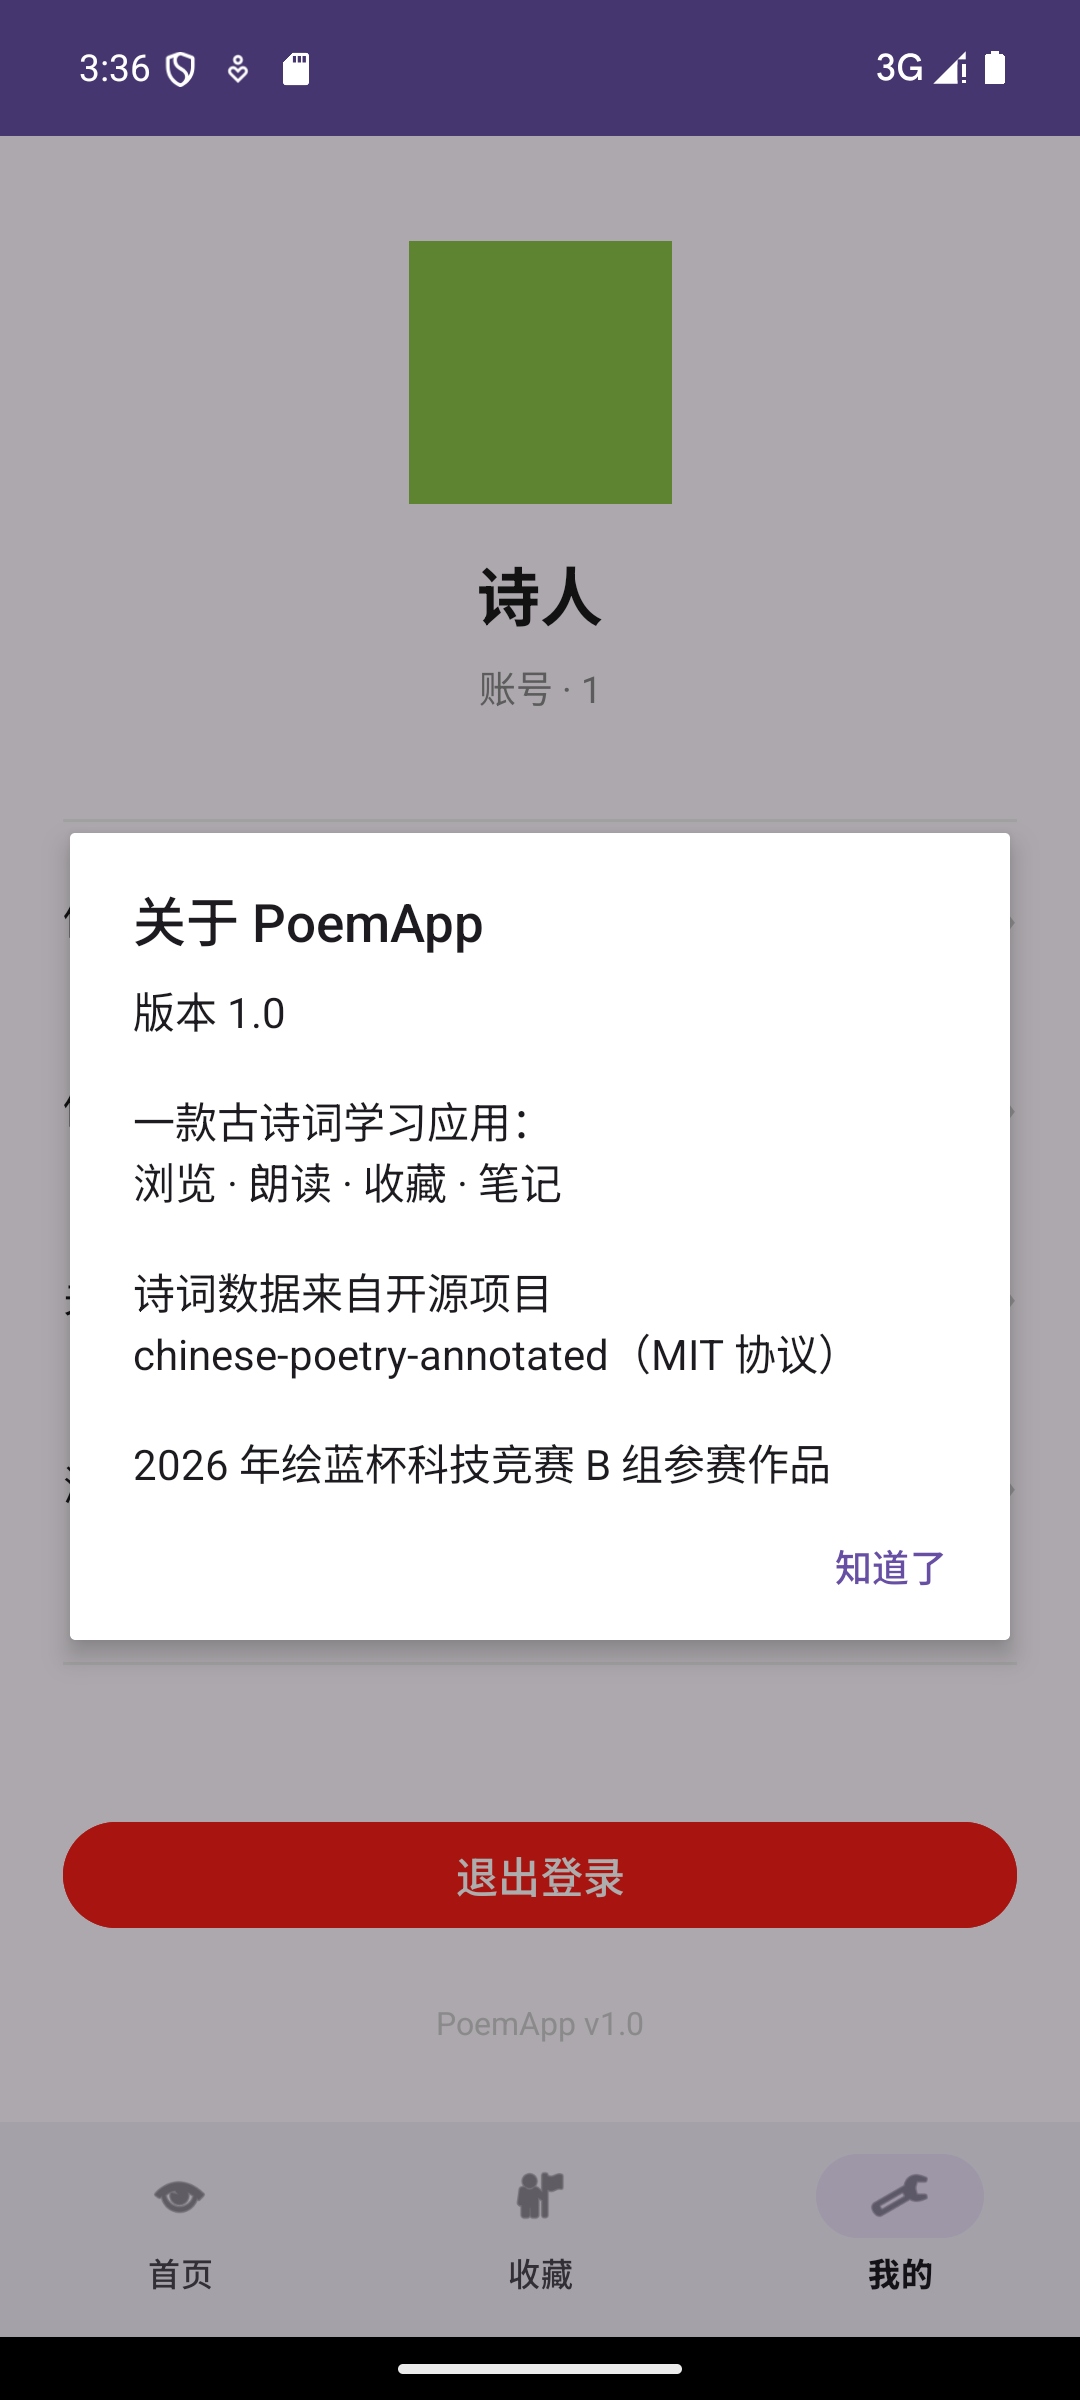
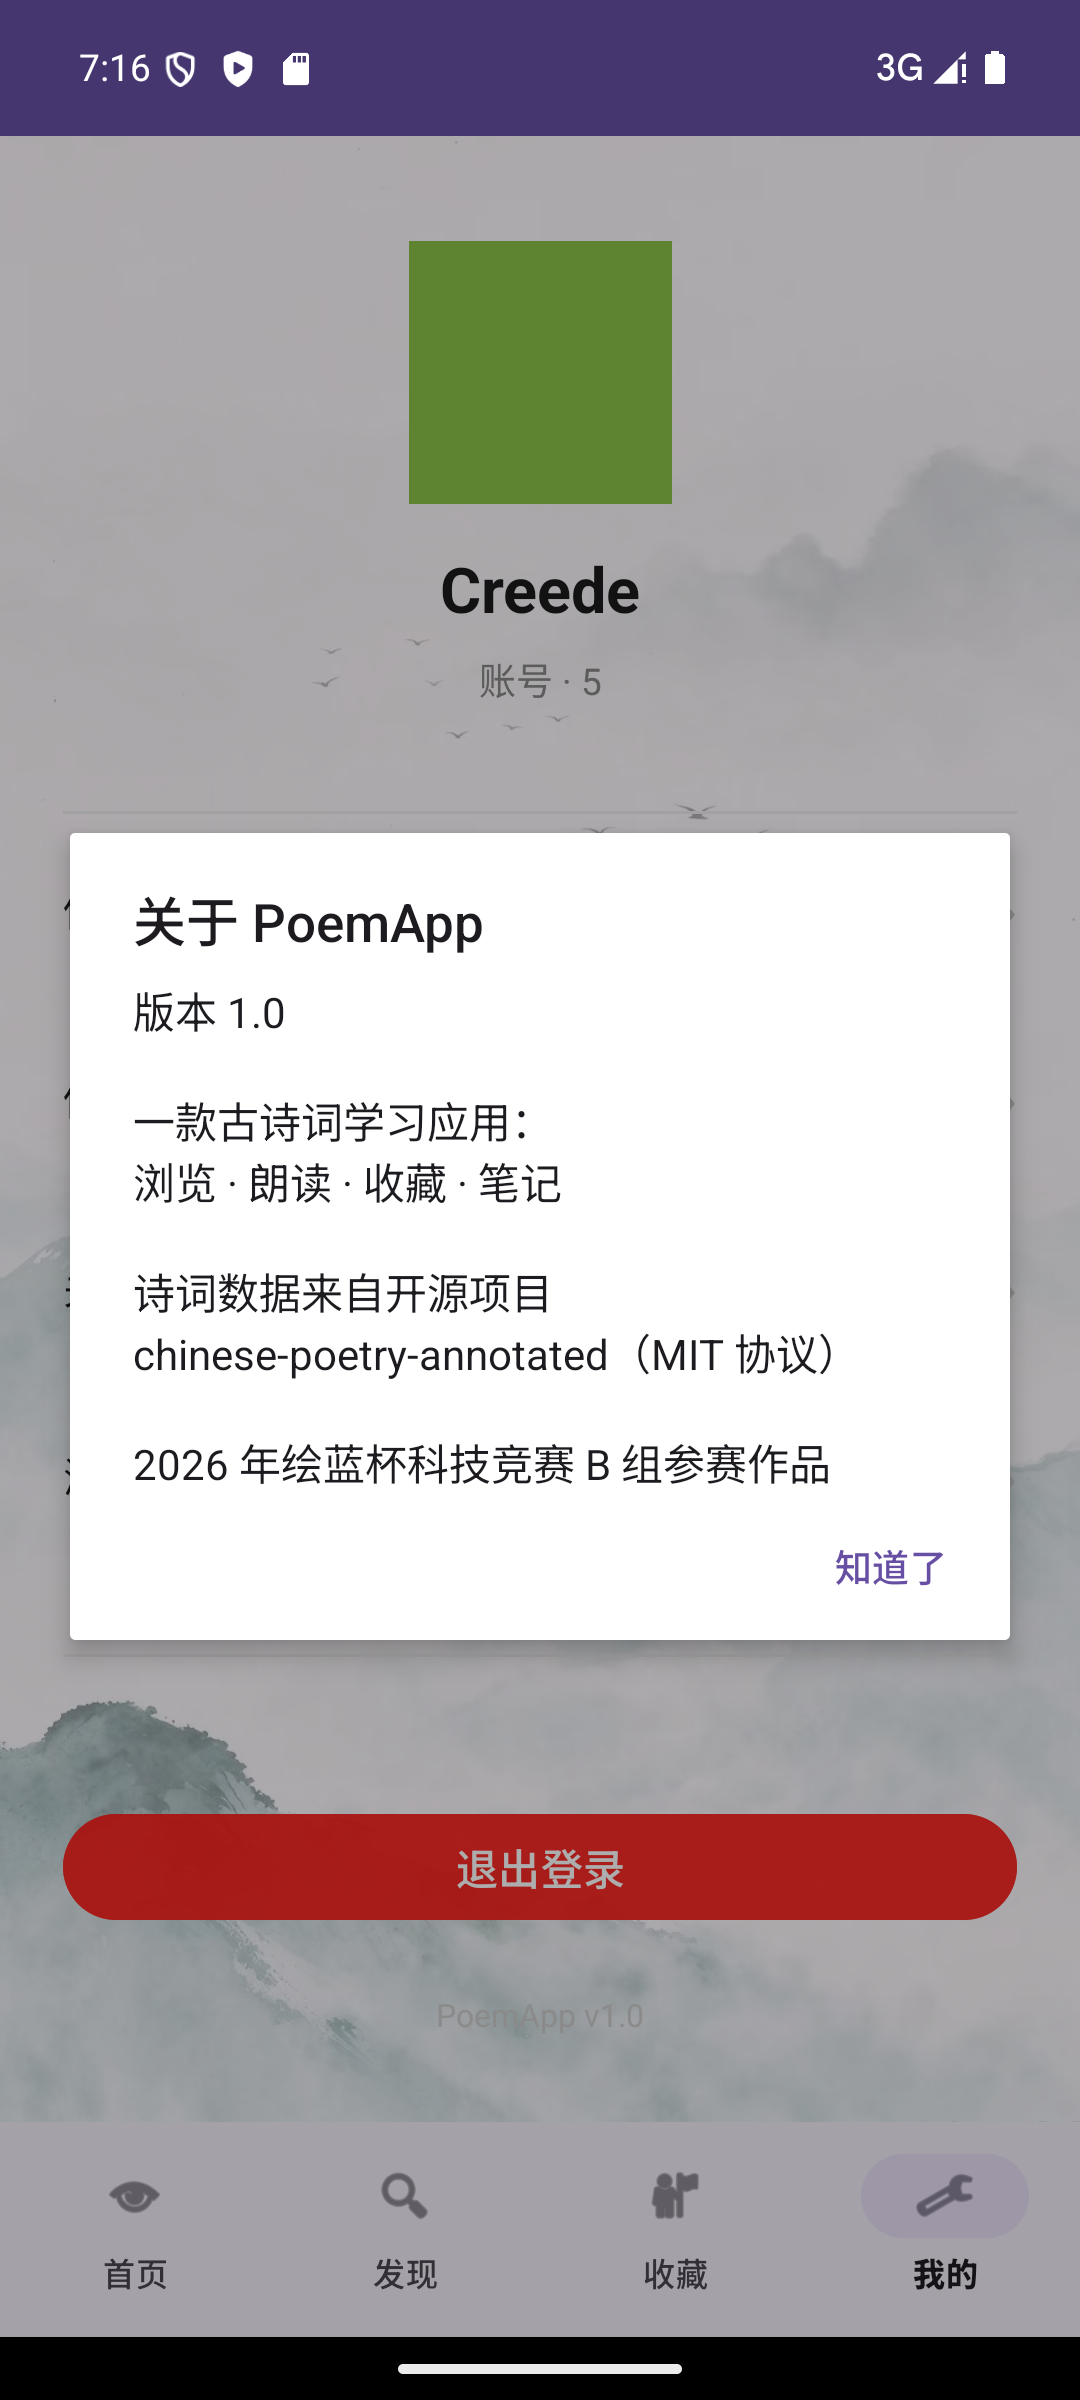
README 更新：重截 8 张界面截图（青绿主题）、底部导航改为四项、补充开发记录

diff --git a/README.md b/README.md
@@ -18,7 +18,7 @@
   - 已登录自动跳过登录页
   - 退出登录（二次确认弹窗）
 - **主界面**
-  - 底部导航栏（首页 / 收藏 / 我的）
+  - 底部导航栏（首页 / 发现 / 收藏 / 我的，四项常显文字）
   - 今日推荐诗词卡片（按日期固定，每天一首）
   - **按朝代筛选**（标签行横滑选择，实时过滤列表）
   - **关键词搜索**（标题 / 作者 / 正文模糊匹配，边输入边出结果）
@@ -41,37 +41,21 @@
 
 ## 截图
 
-| 登录 | 注册 |
+| 首页（问候语 + 朝代筛选 + 今日推荐） | 发现（关键词搜索） |
 |---|---|
-| ![登录](screenshots/login.png) | ![注册](screenshots/register.png) |
+| ![首页](screenshots/home_default.png) | ![发现](screenshots/find.png) |
 
-| 首页（默认） | 按朝代筛选 |
+| 诗词详情（头图 + 原文 + 朗读/收藏） | 我的收藏 |
 |---|---|
-| ![首页](screenshots/home_default.png) | ![筛选](screenshots/filter.png) |
+| ![详情](screenshots/detail.png) | ![收藏](screenshots/favorite.png) |
 
-| 关键词搜索 | 详情页主题标签 |
+| 我的（昵称 / 改密码 / 关于 / 历史） | 浏览历史 |
 |---|---|
-| ![搜索](screenshots/search.png) | ![主题标签](screenshots/detail_tags.png) |
+| ![我的](screenshots/profile.png) | ![浏览历史](screenshots/history.png) |
 
-| 诗词详情 | 我的 |
+| 关于 | 退出登录（二次确认） |
 |---|---|
-| ![详情](screenshots/detail.png) | ![我的](screenshots/profile.png) |
-
-| 详情页收藏后 | 收藏列表 |
-|---|---|
-| ![收藏详情](screenshots/detail_fav.png) | ![收藏列表](screenshots/favorite.png) |
-
-| 浏览历史 | 历史为空（清空后） |
-|---|---|
-| ![浏览历史](screenshots/history.png) | ![历史为空](screenshots/history_empty.png) |
-
-| 密码可见切换 | 关于 |
-|---|---|
-| ![密码可见](screenshots/login_visible.png) | ![关于](screenshots/about.png) |
-
-| 退出登录（二次确认） | 诗词列表 |
-|---|---|
-| ![退出确认](screenshots/logout-dialog.png) | ![诗词列表](screenshots/list.png) |
+| ![关于](screenshots/about.png) | ![退出确认](screenshots/logout-dialog.png) |
 
 ---
 
@@ -147,6 +131,7 @@ app/src/main/
 | 2026-11-23 | 首页改版：搜索入口、动态问候语、按朝代筛选（ChipGroup） |
 | 2026-11-24 | 完成关键词搜索页（like 模糊查询，实时搜索）；详情页新增主题标签 |
 | 2026-11-26 | 修复注册重复提交与空用户名问题；登录页预填改为 onResume；补齐注册页输入提示与密码可见切换 |
+| 2026-11-27 | 界面美化：登录/注册青绿底图、各页淡色背景、详情页头图、卡片改纯白、新增发现页 |
 
 ---
 
